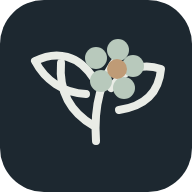
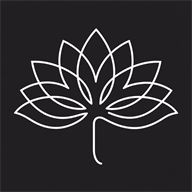
Aplicar identidade Paulo Guimarães e temas claro e escuro

diff --git a/public/app.js b/public/app.js
@@ -26,6 +26,8 @@ const icons = {
   ,truck:'<path d="M3 5h12v12H3zM15 9h4l3 3v5h-7z"/><circle cx="7" cy="18" r="2"/><circle cx="18" cy="18" r="2"/>'
   ,message:'<path d="M3 4h18v13H7l-4 4V4Z"/><path d="M7 9h10M7 13h7"/>'
   ,file:'<path d="M5 3h9l5 5v13H5V3Z"/><path d="M14 3v5h5M8 13h8M8 17h6"/>'
+  ,moon:'<path d="M20.5 14.5A8.5 8.5 0 0 1 9.5 3.5 8.5 8.5 0 1 0 20.5 14.5Z"/>'
+  ,sun:'<circle cx="12" cy="12" r="4"/><path d="M12 2v2M12 20v2M4.93 4.93l1.42 1.42m11.3 11.3 1.42 1.42M2 12h2m16 0h2M4.93 19.07l1.42-1.42m11.3-11.3 1.42-1.42"/>'
 };
 const icon = (name) => `<svg aria-hidden="true" viewBox="0 0 24 24" fill="none" stroke="currentColor" stroke-linecap="round" stroke-linejoin="round">${icons[name] || icons.flower}</svg>`;
 const esc = (value) => String(value ?? '').replace(/[&<>"']/g, ch => ({'&':'&amp;','<':'&lt;','>':'&gt;','"':'&quot;',"'":'&#39;'}[ch]));
@@ -72,9 +74,30 @@ const wallToIso = (date,time,tz) => {
   return new Date(utc).toISOString();
 };
 const initials = name => (name || 'U').trim().split(/\s+/).slice(0,2).map(s=>s[0]?.toUpperCase() || '').join('');
-const state = {user:null, config:{brandName:'Jardim',contactEmail:'',contactPhone:'',defaultTimezone:'America/Sao_Paulo'}, configLoaded:false, month:new Date().toISOString().slice(0,7), eventList:[], clientList:[], teamList:[], renderId:0};
+const state = {user:null, config:{brandName:'Paulo Guimarães',contactEmail:'',contactPhone:'',defaultTimezone:'America/Sao_Paulo'}, configLoaded:false, month:new Date().toISOString().slice(0,7), eventList:[], clientList:[], teamList:[], renderId:0};
 const allowed=(module,action='read') => state.user?.role==='owner' || !!state.user?.permissions?.[module]?.[action];
 const defaultAdminRoute=() => allowed('dashboard')?'/app':allowed('events')?'/app/eventos':allowed('calendar')?'/app/calendario':allowed('finance')?'/app/financeiro':allowed('inventory')?'/app/acervo':allowed('suppliers')?'/app/fornecedores':allowed('messages')?'/app/mensagens':allowed('clients')?'/app/clientes':'/app/sem-acesso';
+const THEME_KEY='paulo-guimaraes-theme';
+const brandLogo=(extra='')=>`<img class="brand-logo ${extra}" src="/logo-principal.png" alt="Paulo Guimarães — Decorações de Eventos">`;
+const currentTheme=()=>document.documentElement.dataset.theme==='dark'?'dark':'light';
+function themeButton() {
+  const dark=currentTheme()==='dark'; const next=dark?'claro':'escuro';
+  return `<button type="button" class="theme-toggle" data-action="theme-toggle" aria-label="Ativar tema ${next}" aria-pressed="${dark}" title="Ativar tema ${next}">${icon(dark?'sun':'moon')}<span class="theme-label">Tema ${next}</span></button>`;
+}
+function applyTheme(theme,persist=true) {
+  const selected=theme==='dark'?'dark':'light';
+  document.documentElement.dataset.theme=selected;
+  document.querySelector('meta[name="theme-color"]')?.setAttribute('content',selected==='dark'?'#171717':'#f7f7f5');
+  if(persist) { try { localStorage.setItem(THEME_KEY,selected); } catch {} }
+  document.querySelectorAll('[data-action="theme-toggle"]').forEach(button=>{
+    const dark=selected==='dark'; const next=dark?'claro':'escuro';
+    button.setAttribute('aria-label',`Ativar tema ${next}`);
+    button.setAttribute('aria-pressed',String(dark));
+    button.setAttribute('title',`Ativar tema ${next}`);
+    button.innerHTML=`${icon(dark?'sun':'moon')}<span class="theme-label">Tema ${next}</span>`;
+  });
+}
+applyTheme(currentTheme(),false);
 
 async function api(path, options={}) {
   const response = await fetch(path,{credentials:'same-origin',cache:'no-store',headers:{'Accept':'application/json',...(options.body ? {'Content-Type':'application/json'} : {})},...options});
@@ -92,18 +115,18 @@ function html(node) { app.innerHTML=node; }
 const navItem=(path,label,ico,active) => `<a class="nav-link ${active===path?'active':''}" href="${path}" data-nav="${path}">${icon(ico)}<span>${label}</span></a>`;
 function adminShell(content,active='/app') {
   const u=state.user; const owner=u.role==='owner';
-  return `<div class="app-shell"><aside class="sidebar"><a class="brand" href="/app" data-nav="/app"><span class="brand-mark">✻</span><span>${esc(state.config.brandName)}<small>Gestão de eventos</small></span></a>
+  return `<div class="app-shell"><aside class="sidebar"><a class="brand" href="/app" data-nav="/app">${brandLogo()}</a>
     <div class="nav-label">Operação</div>${allowed('dashboard')?navItem('/app','Visão geral','home',active):''}${allowed('events')?navItem('/app/eventos','Eventos','flower',active):''}${allowed('calendar')?navItem('/app/calendario','Agenda','calendar',active):''}${allowed('inventory')?navItem('/app/acervo','Acervo e estoque','box',active):''}
     <div class="nav-label">Administração</div>${allowed('finance')?navItem('/app/financeiro','Financeiro','wallet',active):''}${allowed('suppliers')?navItem('/app/fornecedores','Fornecedores','truck',active):''}${allowed('messages')?navItem('/app/mensagens','Mensagens','message',active):''}${allowed('clients')?navItem('/app/clientes','Clientes','users',active):''}${owner?navItem('/app/equipe','Equipe e acessos','users',active):''}
     <div class="side-bottom"><div class="side-user"><div class="avatar">${esc(initials(u.name))}</div><div><strong>${esc(u.name)}</strong><small>${owner?'Proprietário': 'Equipe'}</small></div></div><button class="side-logout" data-action="logout">Sair da conta</button></div>
-  </aside><div class="main"><div class="content"><header class="topbar"><a class="mobile-brand" href="/app" data-nav="/app"><span class="brand-mark">✻</span><strong>${esc(state.config.brandName)}</strong></a><span class="today">${esc(todayLabel())}</span><span class="topbar-right"><span>${owner?'Proprietário':'Equipe'}</span><span class="avatar" aria-hidden="true">${esc(initials(u.name))}</span></span></header>${content}</div></div>
+  </aside><div class="main"><div class="content"><header class="topbar"><a class="mobile-brand" href="/app" data-nav="/app">${brandLogo('brand-logo-mobile')}</a><span class="today">${esc(todayLabel())}</span><div class="topbar-tools">${themeButton()}<span class="topbar-right"><span>${owner?'Proprietário':'Equipe'}</span><span class="avatar" aria-hidden="true">${esc(initials(u.name))}</span></span></div></header>${content}</div></div>
   <nav class="mobile-nav" aria-label="Navegação principal">${allowed('dashboard')?`<a href="/app" data-nav="/app" class="${active==='/app'?'active':''}">${icon('home')}<span>Início</span></a>`:''}${allowed('events')?`<a href="/app/eventos" data-nav="/app/eventos" class="${active==='/app/eventos'?'active':''}">${icon('flower')}<span>Eventos</span></a>`:''}${allowed('calendar')?`<a href="/app/calendario" data-nav="/app/calendario" class="${active==='/app/calendario'?'active':''}">${icon('calendar')}<span>Agenda</span></a>`:''}${allowed('finance')?`<a href="/app/financeiro" data-nav="/app/financeiro" class="${active==='/app/financeiro'?'active':''}">${icon('wallet')}<span>Financeiro</span></a>`:''}<details class="mobile-more"><summary class="${['/app/clientes','/app/equipe','/app/acervo','/app/fornecedores','/app/mensagens'].includes(active)?'active':''}">${icon('menu')}<span>Mais</span></summary><div class="mobile-more-panel">${allowed('inventory')?`<a href="/app/acervo" data-nav="/app/acervo">${icon('box')} Acervo e estoque</a>`:''}${allowed('suppliers')?`<a href="/app/fornecedores" data-nav="/app/fornecedores">${icon('truck')} Fornecedores</a>`:''}${allowed('messages')?`<a href="/app/mensagens" data-nav="/app/mensagens">${icon('message')} Mensagens</a>`:''}${allowed('clients')?`<a href="/app/clientes" data-nav="/app/clientes">${icon('users')} Clientes</a>`:''}${owner?`<a href="/app/equipe" data-nav="/app/equipe">${icon('users')} Equipe e acessos</a>`:''}<button data-action="logout">Sair da conta</button></div></details></nav></div>`;
 }
 function portalShell(content) {
-  return `<div class="portal-shell"><header class="portal-nav"><a class="brand" href="/portal" data-nav="/portal"><span class="brand-mark">✻</span> ${esc(state.config.brandName)}</a><div class="nav-actions"><a href="/portal" data-nav="/portal">Meus eventos</a><a href="/portal/notificacoes" data-nav="/portal/notificacoes">Notificações</a><span class="small portal-user-name">${esc(state.user.name)}</span><button data-action="logout">Sair</button></div></header><main class="portal-main">${content}</main></div>`;
+  return `<div class="portal-shell"><header class="portal-nav"><a class="brand" href="/portal" data-nav="/portal">${brandLogo()}</a><div class="nav-actions"><a href="/portal" data-nav="/portal">Meus eventos</a><a href="/portal/notificacoes" data-nav="/portal/notificacoes">Notificações</a><span class="small portal-user-name">${esc(state.user.name)}</span>${themeButton()}<button data-action="logout">Sair</button></div></header><main class="portal-main">${content}</main></div>`;
 }
 function authShell(content) {
-  return `<div class="auth-page"><div class="auth-art"><a class="brand" href="/" data-nav="/"><span class="brand-mark">✻</span> ${esc(state.config.brandName)}</a><blockquote>Os detalhes que tornam cada celebração inesquecível.</blockquote><small>Planejamento de eventos com cuidado, beleza e clareza.</small></div><main class="auth-form-side"><div class="auth-card">${content}</div></main></div>`;
+  return `<div class="auth-page"><div class="auth-art"><a class="brand" href="/" data-nav="/">${brandLogo()}</a><img class="brand-flower" src="/logo-flor.png" alt="" aria-hidden="true"><blockquote>Os detalhes que tornam cada celebração inesquecível.</blockquote><small>Planejamento de eventos com cuidado, beleza e clareza.</small></div><main class="auth-form-side"><div class="auth-theme">${themeButton()}</div><div class="auth-card">${content}</div></main></div>`;
 }
 function loginPage() {
   html(authShell(`<div class="eyebrow">Bem-vindo de volta</div><h1>Entre no seu espaço</h1><p>Acompanhe cada detalhe da sua celebração.</p><form data-form="login"><div class="field"><label for="email">E-mail</label><input id="email" name="email" type="email" autocomplete="username" required></div><div class="field"><label for="password">Senha</label><input id="password" name="password" type="password" autocomplete="current-password" required></div><button class="button" type="submit">Entrar ${icon('arrow')}</button></form><p class="note">Problemas para acessar? Peça à equipe um link de recuperação.</p>`));
@@ -276,7 +299,7 @@ async function portalHomePage() {
 async function portalEventPage(id) {
   const [er,fr]=await Promise.all([api(`/api/portal/events/${encodeURIComponent(id)}`),api(`/api/portal/events/${encodeURIComponent(id)}/finance`)]); const e=er.event; const cd=countdown(e.startAt);
   const ceremonyMap=mapLink(e.ceremonyMapUrl,e.ceremonyAddress); const receptionMap=mapLink(e.receptionMapUrl,e.receptionAddress);
-  html(portalShell(`<a class="text-link small" href="/portal" data-nav="/portal">← Meus eventos</a><div class="portal-hero portal-section"><div><div class="eyebrow">${esc(e.code||'Sua celebração')}</div><h1>${esc(e.name)}</h1><p>${dateLabel(e.startAt,e.timezone)} · ${timeLabel(e.startAt,e.timezone)}${endTimeLabel(e.startAt,e.endAt,e.timezone)}</p></div><div class="countdown"><strong>${cd.number}</strong><span>${cd.label}</span></div></div>
+  html(portalShell(`<a class="text-link small" href="/portal" data-nav="/portal">← Meus eventos</a><div class="portal-hero portal-section"><img class="brand-flower portal-flower" src="/logo-flor.png" alt="" aria-hidden="true"><div><div class="eyebrow">${esc(e.code||'Sua celebração')}</div><h1>${esc(e.name)}</h1><p>${dateLabel(e.startAt,e.timezone)} · ${timeLabel(e.startAt,e.timezone)}${endTimeLabel(e.startAt,e.endAt,e.timezone)}</p></div><div class="countdown"><strong>${cd.number}</strong><span>${cd.label}</span></div></div>
     <div class="grid two portal-section"><section class="panel"><div class="panel-head"><h2>Informações do evento</h2></div><dl class="facts"><div class="fact"><dt>Tipo</dt><dd>${esc(typeNames[e.type]||e.type)}</dd></div><div class="fact"><dt>Situação</dt><dd>${badge(e.status)}</dd></div><div class="fact"><dt>Data</dt><dd>${dateLabel(e.startAt,e.timezone)}</dd></div><div class="fact"><dt>Horário</dt><dd>${timeLabel(e.startAt,e.timezone)}${endTimeLabel(e.startAt,e.endAt,e.timezone)}</dd></div></dl></section>
     <section class="panel"><div class="panel-head"><h2>Locais</h2></div><dl class="facts"><div class="fact"><dt>Cerimônia</dt><dd>${esc(e.ceremonyName||'A definir')}</dd>${e.ceremonyAddress?`<div class="small">${esc(e.ceremonyAddress)}</div>`:''}${ceremonyMap?`<a class="small" href="${esc(ceremonyMap)}" target="_blank" rel="noopener noreferrer">Abrir no mapa ↗</a>`:''}</div><div class="fact"><dt>Festa</dt><dd>${esc(e.receptionName||'A definir')}</dd>${e.receptionAddress?`<div class="small">${esc(e.receptionAddress)}</div>`:''}${receptionMap?`<a class="small" href="${esc(receptionMap)}" target="_blank" rel="noopener noreferrer">Abrir no mapa ↗</a>`:''}</div></dl></section></div>
     <section class="panel portal-section"><div class="panel-head"><h2>Financeiro compartilhado</h2></div>${fr.accounts?.length?`<div class="grid three finance-summary"><div><span>Valores informados pela equipe</span><strong>${moneyCents(fr.summary?.contractedCents)}</strong></div><div><span>Pagamentos reconhecidos</span><strong>${moneyCents(fr.summary?.receivedCents)}</strong></div><div><span>Saldo a pagar</span><strong>${moneyCents(fr.summary?.receivableCents)}</strong></div></div><h3 class="portal-section">Parcelas</h3><div class="installment-list">${fr.accounts.flatMap(a=>(a.installments||[]).map(i=>({...i,accountTitle:a.title}))).sort((a,b)=>(a.dueDate||'').localeCompare(b.dueDate||'')).map(i=>`<div class="installment-row"><div><strong>${esc(i.accountTitle)}</strong><small>Vence em ${dateOnlyLabel(i.dueDate)} · ${i.status==='paid'?'Pago':i.status==='overdue'?'Vencido':i.status==='partial'?'Pagamento parcial':'Em aberto'}</small></div><div class="align-right"><strong>${moneyCents(i.amountCents)}</strong><small>Saldo ${moneyCents(i.balanceCents)}</small></div></div>`).join('')}</div>${fr.accounts.some(a=>a.payments?.length)?`<h3 class="portal-section">Pagamentos reconhecidos</h3><div class="installment-list">${fr.accounts.flatMap(a=>(a.payments||[]).map(p=>({...p,accountTitle:a.title}))).sort((a,b)=>(b.paidOn||'').localeCompare(a.paidOn||'')).map(p=>`<div class="installment-row"><div><strong>${esc(p.accountTitle)}</strong><small>${dateOnlyLabel(p.paidOn)} · ${esc(p.paymentMethod||'Forma não informada')}</small></div><strong>${moneyCents(p.amountCents)}</strong></div>`).join('')}</div>`:''}`:'<p>A equipe ainda não compartilhou valores financeiros deste evento.</p>'}<p class="small portal-section">Pagamentos são registrados pela equipe. Este portal não realiza cobrança ou assinatura de contrato.</p></section>
@@ -527,6 +550,7 @@ document.addEventListener('click',async event=>{
   const link=event.target.closest('a[data-nav]'); if(link) { event.preventDefault(); go(link.dataset.nav); return; }
   const inventoryAction=event.target.closest('[data-inv-action]'); if(inventoryAction) { event.preventDefault(); await inventoryUi.handleAction(inventoryAction); return; }
   const action=event.target.closest('[data-action]'); if(!action) return;
+  if (action.dataset.action==='theme-toggle') { applyTheme(currentTheme()==='dark'?'light':'dark'); return; }
   if (action.dataset.action==='logout') { try { await api('/api/auth/logout',{method:'POST'}); } catch {} state.user=null; go('/entrar'); }
   if (action.dataset.action==='month-prev' || action.dataset.action==='month-next') {
     const [y,m]=state.month.split('-').map(Number); const delta=action.dataset.action==='month-prev'?-1:1; const d=new Date(Date.UTC(y,m-1+delta,1)); state.month=d.toISOString().slice(0,7); render();

diff --git a/public/app.css b/public/app.css
@@ -359,3 +359,152 @@ h3{font-weight:700}
   .finance-summary>div{padding:14px 15px}
   .finance-summary>div>strong{font-size:1.08rem}
 }
+
+/* Identidade Paulo Guimarães: grafite, branco e cinzas neutros. */
+:root{
+  color-scheme:light;
+  --ink:#242326;--muted:#5f5c60;--deep:#262427;--deep-2:#161518;
+  --rose:#726d70;--rose-soft:#eae8e8;--gold:#686367;--gold-soft:#eeecec;
+  --canvas:#f4f3f2;--paper:#fff;--line:#d8d5d5;--soft:#efedec;
+  --accent:#3f3b3f;--accent-soft:#e8e5e5;--copper:#625b60;
+  --danger:#a43737;--shadow:0 10px 32px rgba(29,27,30,.055);
+  --input:#fff;--hover:#f6f5f4;--sidebar-link:#e8e4e4;
+}
+html[data-theme="dark"]{
+  color-scheme:dark;
+  --ink:#f4f2f1;--muted:#c7c1c1;--deep:#1d1b1e;--deep-2:#100f11;
+  --rose:#c9c2c4;--rose-soft:#3a3538;--gold:#c5bfc1;--gold-soft:#363235;
+  --canvas:#161518;--paper:#242225;--line:#494549;--soft:#302d31;
+  --accent:#f0eae9;--accent-soft:#3b373b;--copper:#d8d1d1;
+  --danger:#f0a09a;--shadow:0 10px 32px rgba(0,0,0,.18);
+  --input:#2e2b2f;--hover:#343135;--sidebar-link:#ede9e9;
+}
+body{background:var(--canvas);color:var(--ink)}
+:where(a,button,input,select,textarea,summary):focus-visible{outline:3px solid var(--copper);outline-offset:3px}
+.eyebrow{color:var(--copper)}
+.sidebar,.portal-nav{background:var(--deep);color:#f8f6f5}
+.nav-label,.sidebar .brand small{color:#c4bdc0}
+.nav-link,.side-logout{color:var(--sidebar-link)}
+.nav-link:hover{background:#3a373b;color:#fff}
+.nav-link.active{background:#49454a;color:#fff;box-shadow:inset 3px 0 #d9d1d2}
+.side-bottom{border-top-color:#514d51}
+.side-user small{color:#ccc6c8}
+.brand-mark{border-color:#8d8589;color:#f3ebed}
+.avatar{background:#e0d9dc;color:#242326}
+.button{background:var(--deep);color:#fff;border-color:var(--deep)}
+.button:hover{background:var(--deep-2)}
+.button.secondary{background:var(--paper);color:var(--ink);border-color:var(--line)}
+.button.secondary:hover{background:var(--hover)}
+.button.ghost{color:var(--ink)}
+.button.danger{background:#963e3a;color:#fff}
+.text-link,.fact a,.filter-panel>summary{color:var(--accent)}
+.text-link:hover{color:var(--ink)}
+.stat-card:hover,.portal-event-card:hover{border-color:var(--muted)}
+.stat-card:before,.stat-card.rose:before,.stat-card.gold:before,.stat-card.green:before{background:#9d969a}
+.stat-card .stat-foot{color:var(--accent)}
+.date-tile{background:var(--gold-soft);color:var(--ink)}
+.badge{background:#e8e6e6;color:#454145}
+.badge.orcamento{background:#e9e5e3;color:#564e4a}
+.badge.negociacao{background:#ede8e2;color:#5b5146}
+.badge.contratado,.badge.paid,.badge.pago,.badge.recebido{background:#e7e4e5;color:#413d40}
+.badge.em_execucao{background:#e2e8eb;color:#3d5967}
+.badge.concluido{background:#e8e7e7;color:#514e51}
+.badge.cancelado,.badge.overdue,.badge.atrasado,.badge.vencido{background:#f5e3e2;color:#8e3735}
+.field label{color:var(--ink)}
+.field input,.field select,.field textarea,.check-option,.invite-result input{
+  background:var(--input);color:var(--ink);border-color:var(--line)
+}
+.field input::placeholder,.field textarea::placeholder{color:var(--muted);opacity:.85}
+.field input:focus,.field select:focus,.field textarea:focus{border-color:var(--copper);box-shadow:0 0 0 3px rgba(129,119,124,.18)}
+.table tr:hover td{background:var(--hover)}
+.notice{background:var(--soft);color:var(--ink);border-color:var(--line)}
+.notice.error{background:#f5e5e3;color:#823c36;border-color:#e6c8c4}
+.notice.success{background:#e7ede8;color:#305943;border-color:#cbdcd0}
+.weekday,.finance-tabs{background:var(--soft)}
+.cal-day.outside{background:var(--hover)}
+.cal-day.today{background:var(--accent-soft)}
+.cal-event{background:var(--soft);color:var(--ink)}
+.cal-event.orcamento,.cal-event.negociacao{background:var(--gold-soft);color:var(--ink)}
+.auth-art{background:linear-gradient(145deg,#242224,#373438)}
+.auth-art small,.auth-art blockquote{color:#f3f0ef}
+.detail-hero,.portal-hero{background:linear-gradient(130deg,#272528,#39363a)}
+.detail-hero .eyebrow,.portal-hero .eyebrow{color:#e3dadc}
+.detail-hero p,.portal-hero p{color:#e8e2e4}
+.portal-shell{background:var(--canvas)}
+.portal-nav button{color:#eee9eb}
+.spinner{border-color:var(--line);border-top-color:var(--accent)}
+.finance-tabs a,.finance-tabs button{color:var(--muted)}
+.finance-tabs .active{background:var(--paper);color:var(--ink)}
+.money-stat.positive strong,.finance-kpi.positive strong,.kpi-card.positive strong{color:var(--ink)}
+.mobile-nav,.form-actions{background:var(--paper)}
+.mobile-nav>a.active,.mobile-more[open]>summary,.mobile-more>summary.active{color:var(--ink);background:var(--accent-soft)}
+.mobile-more-panel{background:var(--paper);border-color:var(--line)}
+.mobile-more-panel a,.mobile-more-panel button{color:var(--ink)}
+.mobile-more-panel a:hover,.mobile-more-panel button:hover{background:var(--hover)}
+#toast{background:#343135;color:#fff}
+
+/* Os controles ficam próximos da conta em desktop e acessíveis no celular. */
+.theme-toggle{display:inline-flex;align-items:center;justify-content:center;gap:7px;min-height:36px;padding:7px 11px;border:1px solid var(--line);border-radius:9px;background:var(--paper);color:var(--ink);font-size:.76rem;font-weight:700;white-space:nowrap}
+.theme-toggle:hover{background:var(--hover)}
+.theme-toggle svg{width:16px;height:16px}
+.brand-logo{display:block;max-width:100%;height:auto;object-fit:contain}
+.brand-flower{display:block;width:30px;height:30px;object-fit:contain;mix-blend-mode:multiply}
+html[data-theme="dark"] .brand-flower{filter:invert(1);mix-blend-mode:screen}
+
+html[data-theme="dark"] .button{background:#e8e4e5;color:#242326;border-color:#e8e4e5}
+html[data-theme="dark"] .button:hover{background:#fff}
+html[data-theme="dark"] .button.secondary{background:var(--paper);color:var(--ink);border-color:#716b70}
+html[data-theme="dark"] .button.secondary:hover{background:var(--hover)}
+html[data-theme="dark"] .button.ghost{background:transparent;color:var(--ink);border-color:var(--line)}
+html[data-theme="dark"] .button.danger{background:#9e4540;color:#fff;border-color:#9e4540}
+html[data-theme="dark"] .badge{background:#3a363a;color:#ece8e9}
+html[data-theme="dark"] .badge.orcamento{background:#4a403b;color:#f2e2d6}
+html[data-theme="dark"] .badge.negociacao{background:#4a413d;color:#f5e5da}
+html[data-theme="dark"] .badge.contratado,
+html[data-theme="dark"] .badge.paid,
+html[data-theme="dark"] .badge.pago,
+html[data-theme="dark"] .badge.recebido{background:#494549;color:#f0ecee}
+html[data-theme="dark"] .badge.em_execucao{background:#34434a;color:#d8ebf3}
+html[data-theme="dark"] .badge.concluido{background:#414043;color:#e7e3e4}
+html[data-theme="dark"] .badge.cancelado,
+html[data-theme="dark"] .badge.overdue,
+html[data-theme="dark"] .badge.atrasado,
+html[data-theme="dark"] .badge.vencido{background:#543735;color:#ffd8d5}
+html[data-theme="dark"] .notice.error{background:#4a3333;color:#ffd9d7;border-color:#745050}
+html[data-theme="dark"] .notice.success{background:#304036;color:#e2f2e6;border-color:#4a6b53}
+html[data-theme="dark"] .detail-hero .badge{background:#ece8e7;color:#282629}
+html[data-theme="dark"] .stat-card:before{background:#aaa2a5}
+html[data-theme="dark"] .stat-card .stat-foot{color:#e9e3e5}
+html[data-theme="dark"] .auth-page{background:var(--canvas)}
+html[data-theme="dark"] .auth-art{background:linear-gradient(145deg,#1d1b1e,#302d31)}
+html[data-theme="dark"] .theme-toggle{background:var(--paper);color:var(--ink);border-color:var(--line)}
+html[data-theme="dark"] .theme-toggle:hover{background:var(--hover)}
+@media(max-width:760px){
+  .theme-toggle{min-width:36px;padding:7px}
+  .brand-logo{max-height:55px}
+}
+.topbar-tools{display:flex;align-items:center;gap:12px;margin-left:auto}
+.topbar-tools .topbar-right{margin-left:0}
+.sidebar .brand{display:block;padding:0 8px 25px;white-space:normal}
+.sidebar .brand-logo{width:100%;max-width:220px;max-height:88px;object-position:left center}
+.mobile-brand{min-width:0}
+.brand-logo-mobile{display:block;width:142px;max-width:100%;max-height:52px;object-fit:contain;object-position:left center}
+.portal-nav .brand-logo{width:175px;max-height:65px;object-position:left center}
+.auth-art .brand-logo{width:clamp(240px,32vw,410px);max-height:155px;object-position:left center}
+.auth-form-side{flex-direction:column}
+.auth-theme{display:flex;align-items:center;justify-content:flex-end;width:min(100%,410px);margin-bottom:20px}
+.portal-flower{display:block;width:min(22vw,220px);height:auto;object-fit:contain;opacity:.23;filter:invert(1);mix-blend-mode:screen}
+.portal-hero .portal-flower{position:absolute;right:7%;bottom:8%;pointer-events:none}
+html[data-theme="dark"] .portal-flower{filter:invert(1);mix-blend-mode:screen;opacity:.19}
+.sidebar .brand-flower,.portal-nav .brand-flower{filter:invert(1);mix-blend-mode:screen}
+.auth-art .brand-flower{width:88px;height:88px;filter:invert(1);mix-blend-mode:screen;opacity:.52}
+@media(max-width:760px){
+  .topbar-tools{gap:7px}
+  .theme-toggle .theme-label{display:none}
+  .mobile-brand .brand-logo-mobile{width:116px;max-height:44px}
+  .portal-nav .brand-logo{width:120px;max-height:46px}
+  .portal-hero .portal-flower{right:5%;bottom:10px;width:100px;opacity:.12}
+  .auth-art .brand-logo{width:min(73vw,270px);max-height:104px}
+  .auth-art .brand-flower{display:none}
+  .auth-theme{margin-bottom:16px}
+}

diff --git a/public/calendar.css b/public/calendar.css
@@ -85,3 +85,26 @@
   .schedule-hour-labels span{font-size:.6rem;padding-right:4px}
   .schedule-positioned .schedule-event{font-size:.7rem}
 }
+
+/* Agenda acompanha a paleta grafite em ambos os temas. */
+.schedule-weekdays{background:var(--soft)}
+.schedule-month-day.outside{background:var(--hover)}
+.schedule-month-day.outside .schedule-day-number{color:var(--muted)}
+.schedule-hour-labels{background:var(--soft)}
+.schedule-event{background:#e7e4e5;color:#343034;border-color:#716b70}
+.schedule-event.orcamento{background:#eeeae8;color:#453f3d;border-color:#9c928e}
+.schedule-event.negociacao{background:#e5e1e0;color:#403b3b;border-color:#80797a}
+.schedule-event.em_execucao{background:#dddbdf;color:#37343d;border-color:#67616b}
+.schedule-event.concluido{background:#e9e8e8;color:#4e4a4d;border-color:#8d888a}
+.schedule-event.cancelado{background:#f2e5e4;color:#713f3c;border-color:#a9625c}
+.schedule-dots i,.schedule-dots i.orcamento,.schedule-dots i.negociacao{background:#69646a}
+html[data-theme="dark"] .schedule-month-day.today .schedule-day-number{background:#e8e4e5;color:#242326}
+html[data-theme="dark"] .schedule-event{background:#403c40;color:#f4f0f1;border-color:#bdb5ba}
+html[data-theme="dark"] .schedule-event.orcamento{background:#49413e;color:#f2e7e2;border-color:#c8b8af}
+html[data-theme="dark"] .schedule-event.negociacao{background:#423d3d;color:#f2e9e9;border-color:#bcb0b0}
+html[data-theme="dark"] .schedule-event.em_execucao{background:#3d3a42;color:#efebf3;border-color:#b8b0c0}
+html[data-theme="dark"] .schedule-event.concluido{background:#3d3b3e;color:#eae6e8;border-color:#aaa4a8}
+html[data-theme="dark"] .schedule-event.cancelado{background:#513a39;color:#f8e2df;border-color:#d28b84}
+html[data-theme="dark"] .schedule-dots i,
+html[data-theme="dark"] .schedule-dots i.orcamento,
+html[data-theme="dark"] .schedule-dots i.negociacao{background:#d0c9cc}

diff --git a/public/index.html b/public/index.html
@@ -1,18 +1,29 @@
 <!doctype html>
-<html lang="pt-BR">
+<html lang="pt-BR" data-theme="light">
   <head>
     <meta charset="utf-8" />
     <meta name="viewport" content="width=device-width, initial-scale=1, viewport-fit=cover" />
-    <meta name="theme-color" content="#1d2830" />
-    <meta name="color-scheme" content="light" />
+    <meta name="theme-color" content="#f7f7f5" />
+    <meta name="color-scheme" content="light dark" />
     <meta name="description" content="Gestão de eventos e acompanhamento do seu grande dia." />
     <link rel="manifest" href="/manifest.webmanifest" />
-    <link rel="icon" type="image/svg+xml" href="/icon.svg" />
+    <link rel="icon" type="image/png" href="/icon-192.png" />
     <link rel="apple-touch-icon" href="/icon-192.png" />
     <link rel="stylesheet" href="/app.css" />
     <link rel="stylesheet" href="/calendar.css" />
     <link rel="stylesheet" href="/features.css" />
-    <title>Jardim — Eventos e celebrações</title>
+    <title>Paulo Guimarães — Decorações de Eventos</title>
+    <script>
+      (() => {
+        let saved;
+        try { saved = localStorage.getItem('paulo-guimaraes-theme'); } catch {}
+        const theme = saved === 'light' || saved === 'dark' ? saved :
+          (window.matchMedia?.('(prefers-color-scheme: dark)')?.matches ? 'dark' : 'light');
+        document.documentElement.dataset.theme = theme;
+        document.querySelector('meta[name="theme-color"]')?.setAttribute('content',
+          theme === 'dark' ? '#171717' : '#f7f7f5');
+      })();
+    </script>
   </head>
   <body>
     <div id="app" aria-live="polite"></div>

diff --git a/public/features.css b/public/features.css
@@ -89,3 +89,16 @@
   .portal-nav .nav-actions>a[href='/portal/notificacoes']{display:inline-flex;font-size:.76rem}
 }
 @media(max-width:390px){.inventory-grid{grid-template-columns:1fr 1fr}.inventory-cover{height:100px}}
+
+.inventory-cover{background:linear-gradient(140deg,#eeebec,#ddd9db);color:#827b80}
+.badge.message-scheduled,.badge.message-processing{background:#e8e6e7;color:#4e484d}
+.badge.message-sent{background:#e4eae5;color:#385a43}
+.badge.message-failed{background:#f2e4e3;color:#8e4641}
+.badge.message-cancelled{background:var(--soft);color:var(--muted)}
+html[data-theme="dark"] .inventory-cover{background:linear-gradient(140deg,#353136,#484247);color:#b4aaaf}
+html[data-theme="dark"] .inventory-card:hover{box-shadow:0 16px 34px #0005}
+html[data-theme="dark"] .badge.message-scheduled,
+html[data-theme="dark"] .badge.message-processing{background:#454146;color:#f0e9ec}
+html[data-theme="dark"] .badge.message-sent{background:#304237;color:#d7f0df}
+html[data-theme="dark"] .badge.message-failed{background:#563b3a;color:#ffdcd9}
+html[data-theme="dark"] .badge.message-cancelled{background:#383438;color:#d1c8cc}

diff --git a/public/sw.js b/public/sw.js
@@ -1,5 +1,5 @@
-const CACHE = 'jardim-static-v5';
-const STATIC = ['/app.css', '/calendar.css', '/features.css', '/app.js', '/calendar.js', '/media-ui.js', '/inventory-ui.js', '/messages-ui.js', '/icon.svg', '/icon-192.png', '/icon-512.png', '/manifest.webmanifest'];
+const CACHE = 'paulo-static-v1';
+const STATIC = ['/app.css', '/calendar.css', '/features.css', '/app.js', '/calendar.js', '/media-ui.js', '/inventory-ui.js', '/messages-ui.js', '/logo-principal.png', '/logo-flor.png', '/icon-192.png', '/icon-512.png', '/manifest.webmanifest'];
 
 self.addEventListener('install', event => {
   event.waitUntil(caches.open(CACHE).then(cache => cache.addAll(STATIC)));

diff --git a/server/app.js b/server/app.js
@@ -116,7 +116,7 @@ function defaultTimezone() {
 }
 
 function publicConfig() {
-  const brandName = process.env.BRAND_NAME?.trim().slice(0, 120) || 'Jardim';
+  const brandName = process.env.BRAND_NAME?.trim().slice(0, 120) || 'Paulo Guimarães';
   const contactEmail = process.env.CONTACT_EMAIL?.trim().slice(0, 254) || '';
   const contactPhone = process.env.CONTACT_PHONE?.trim().slice(0, 40) || '';
   return { brandName, contactEmail, contactPhone, defaultTimezone: defaultTimezone() };

diff --git a/README.md b/README.md
@@ -1,6 +1,8 @@
-# Jardim — sistema de eventos
+# Paulo Guimarães — sistema de eventos
 
 Aplicação web responsiva e instalável como PWA para organização de eventos. O painel administrativo e o portal do cliente compartilham o mesmo banco persistente. Interface em português do Brasil, valores em reais e fuso padrão `America/Sao_Paulo`.
+
+A identidade visual usa a marca **Paulo Guimarães — Decorações de Eventos**: assinatura principal nos cabeçalhos e na entrada, flor secundária em detalhes e no ícone instalável. O botão de tema alterna entre claro e escuro no administrativo, no portal e na entrada; a escolha fica salva neste navegador. Os PNGs do projeto são versões preparadas a partir das imagens enviadas na conversa. Para fidelidade pixel a pixel ao material gráfico original, substitua `public/logo-principal.png` e `public/logo-flor.png` pelos arquivos oficiais.
 
 ## O que funciona
 
